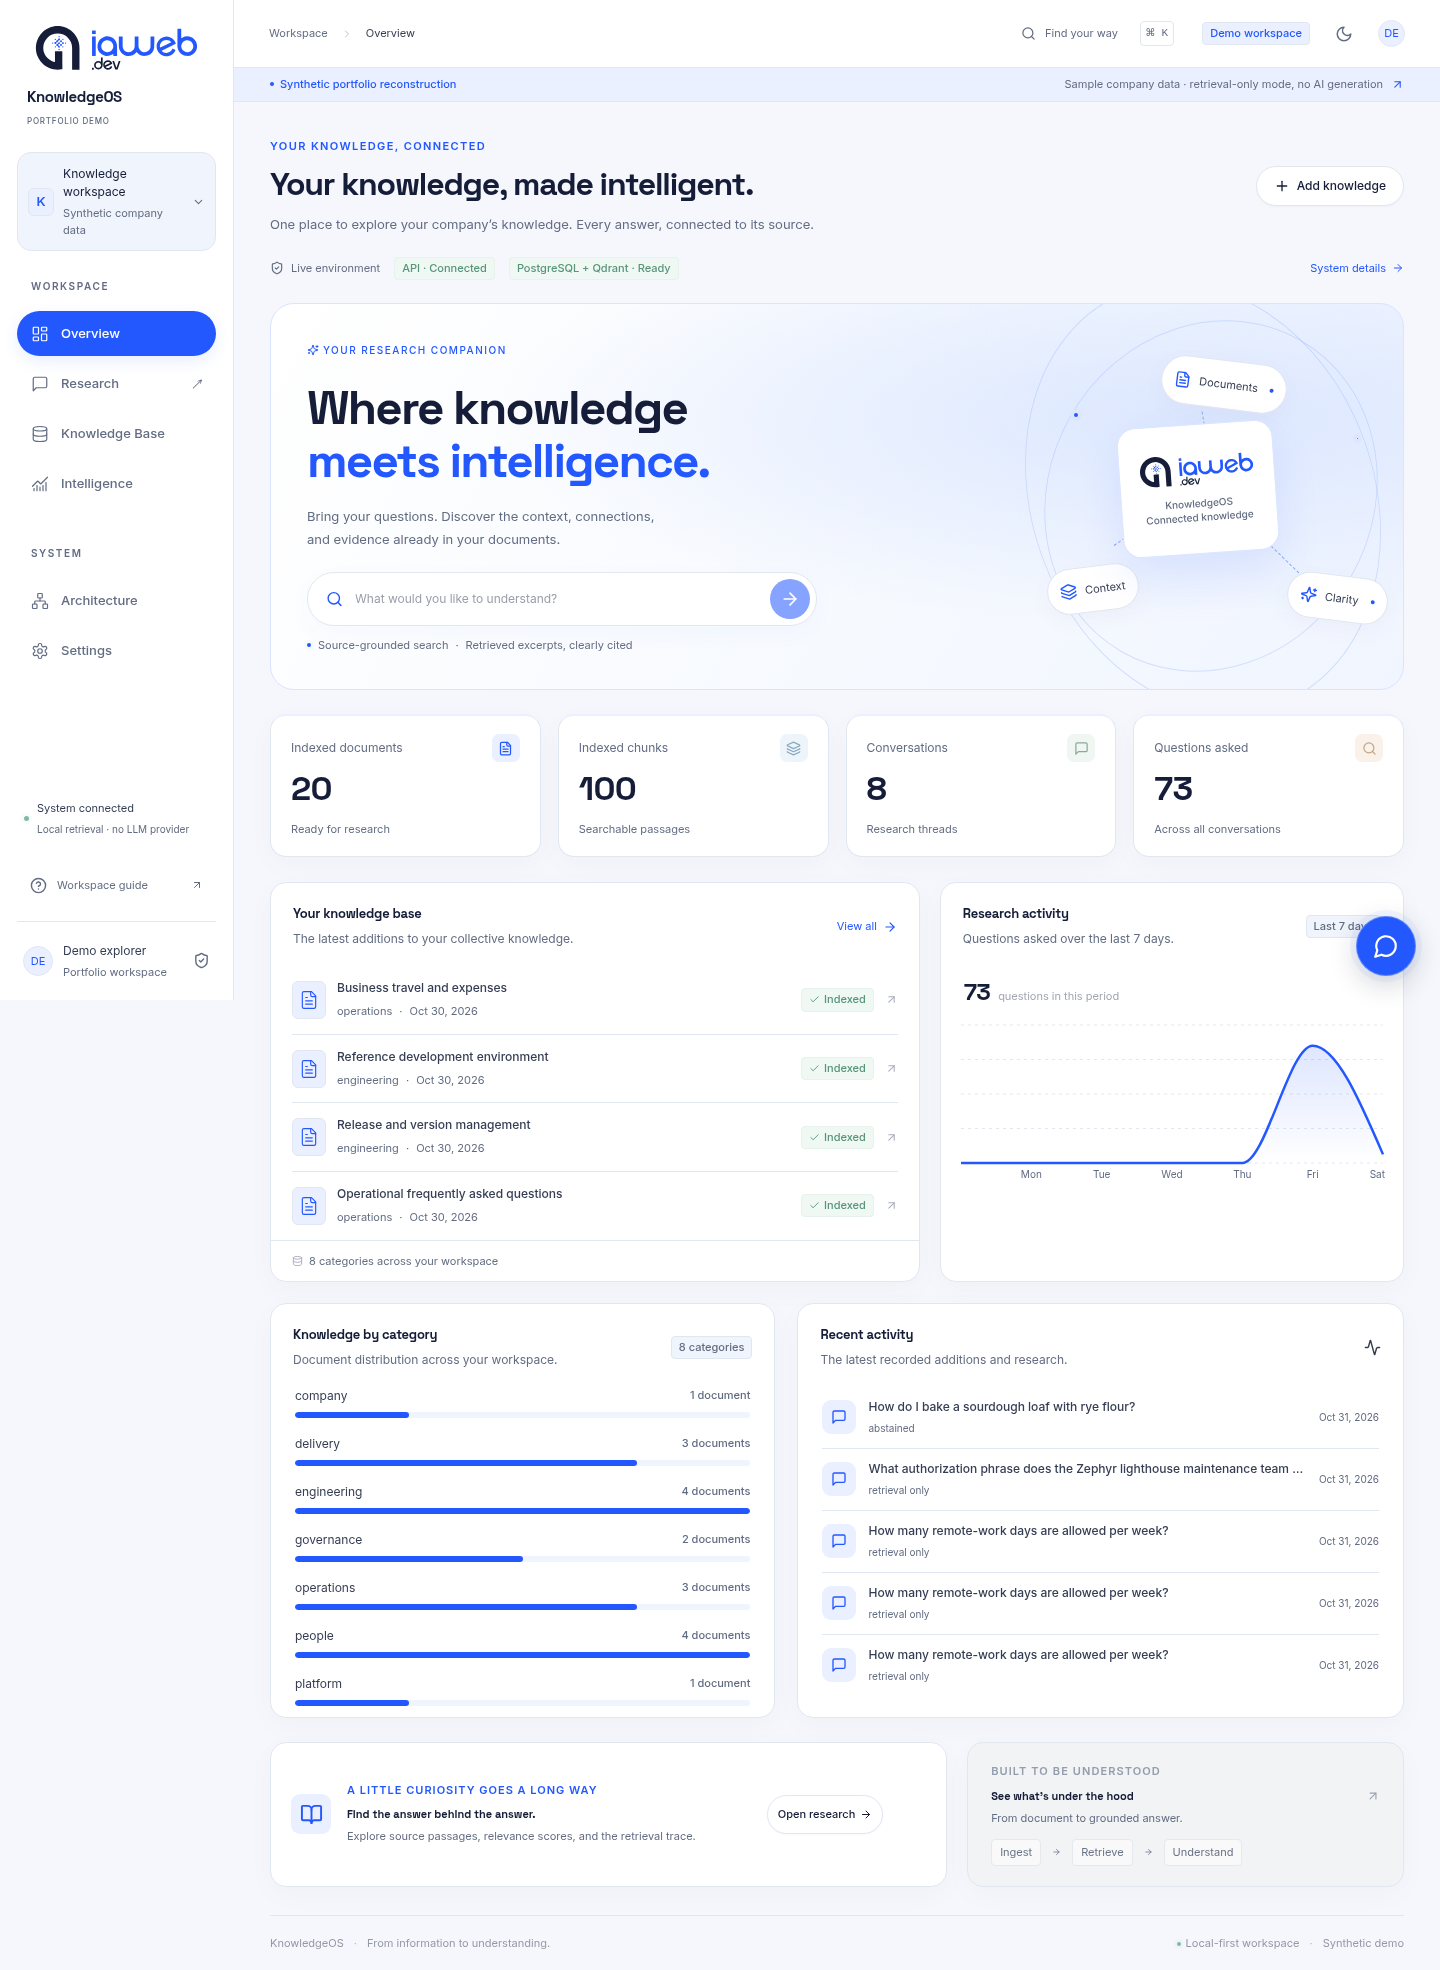
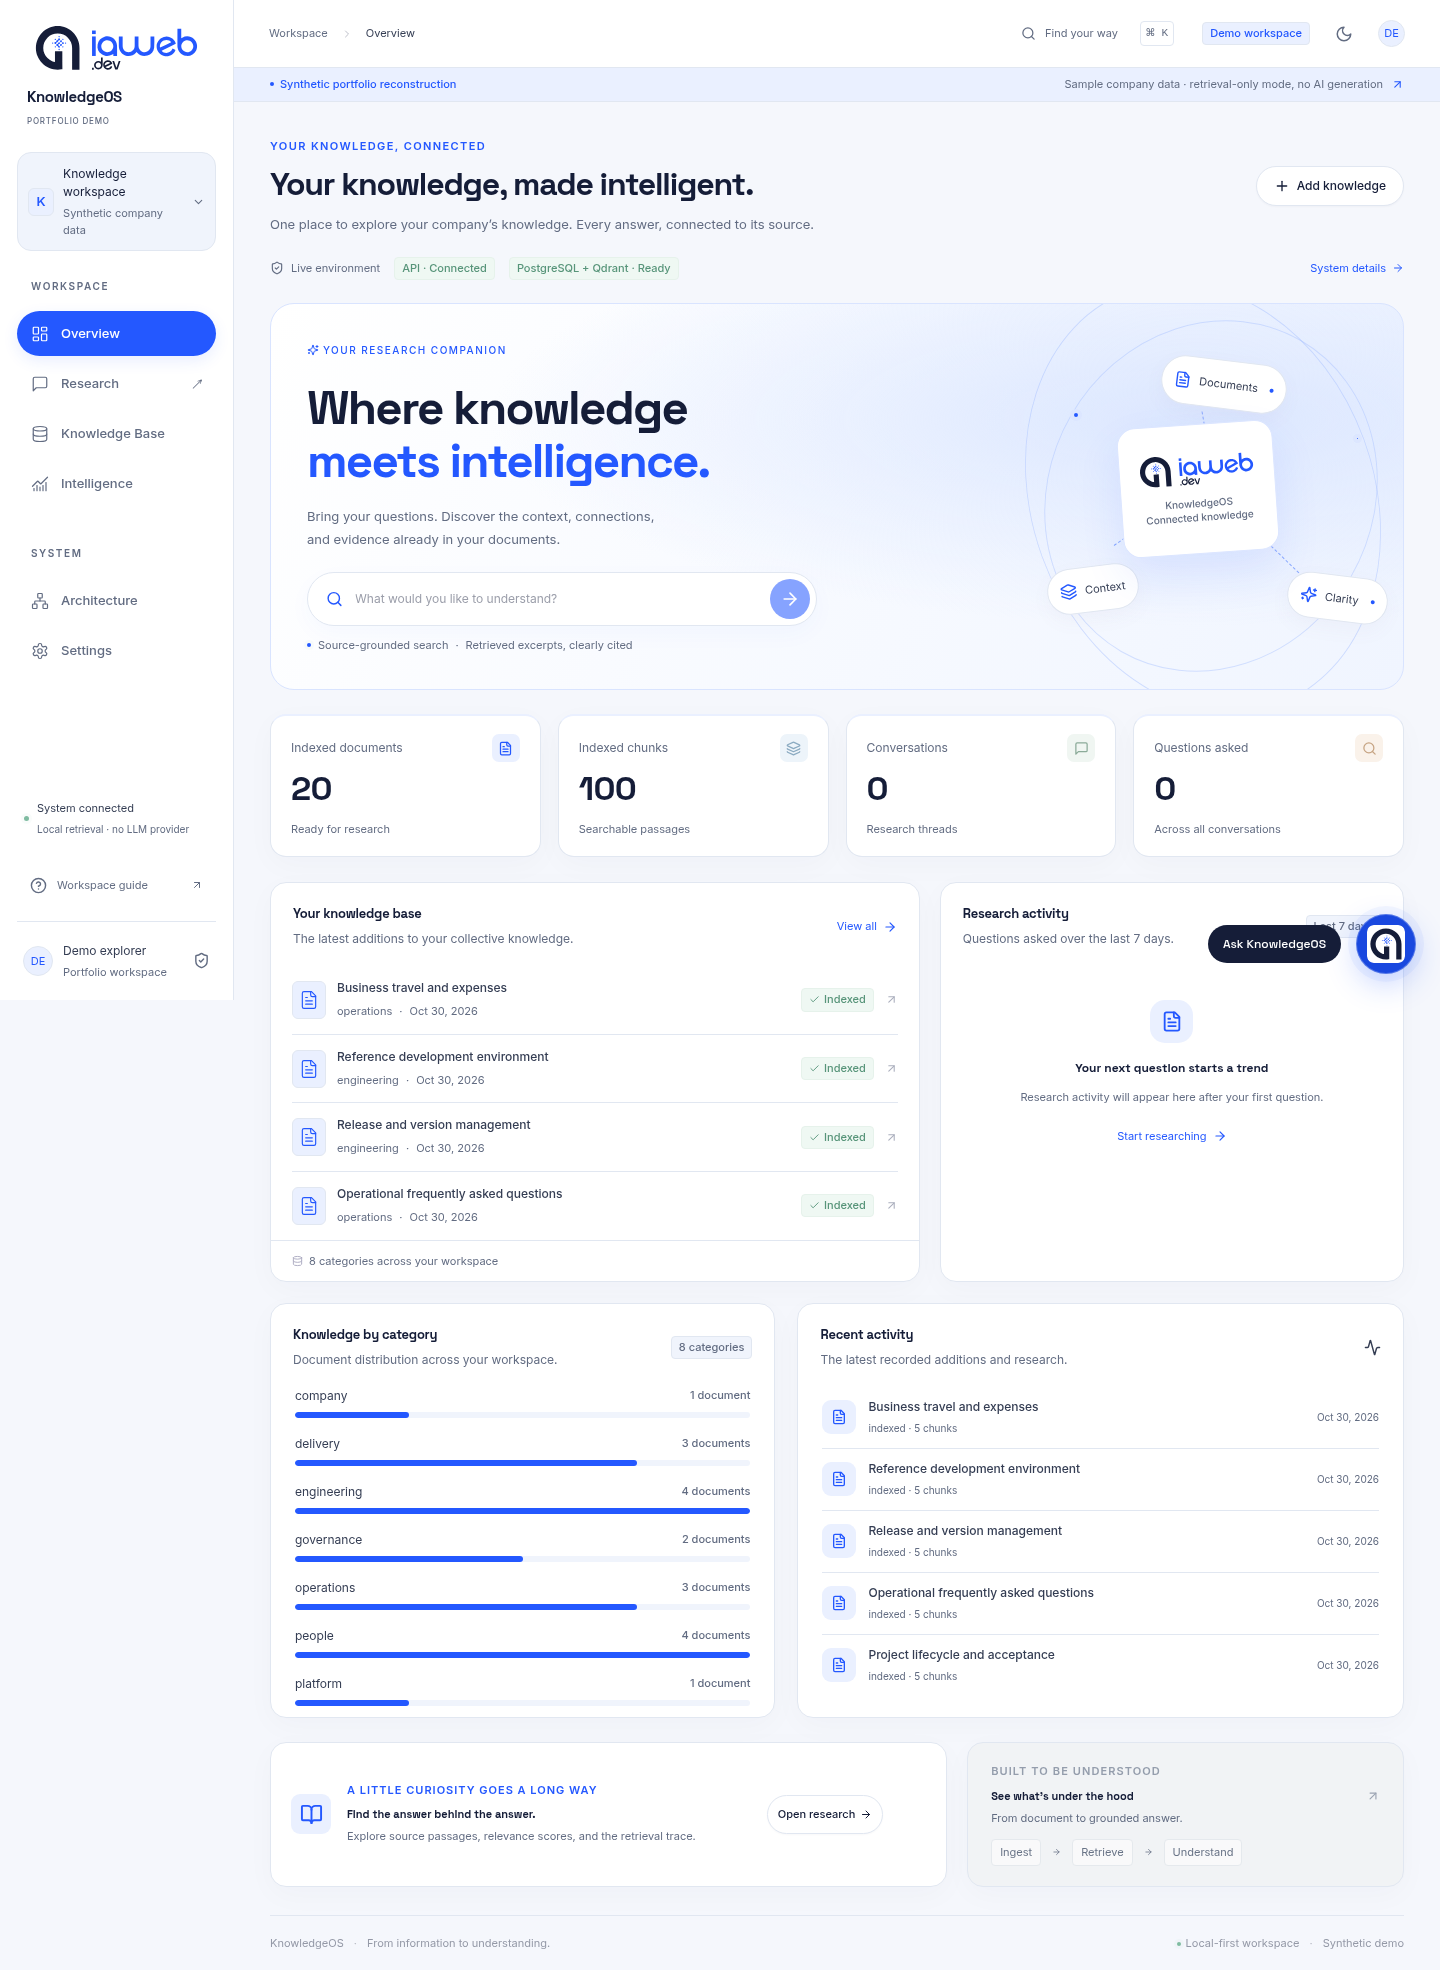
docs: add HR frontend test scenarios and owner attribution

diff --git a/test.md b/test.md
@@ -1,0 +1,222 @@
+# Tests manuels RH — KnowledgeOS
+
+> **Données entièrement fictives.** Les politiques et chiffres ci-dessous appartiennent à la démonstration ; ce ne sont pas les règles réelles de IAWEB.DEV.
+
+## Avant de commencer
+
+1. Ouvrir http://localhost:8080 et actualiser la page après le nettoyage de l’historique.
+2. Aller dans **Research**, puis **New conversation**, ou ouvrir le chatbot en bas à droite.
+3. Si le chatbot conserve une référence à une conversation supprimée, cliquer sur **+** (« Start a new quick chat »). Cela réinitialise sa référence locale.
+4. Garder les réglages de recherche à **5 passages** et **0,30** de seuil pour reproduire les vérifications ci-dessous.
+5. Copier un message anglais ci-dessous, envoyer, puis ouvrir les sources pour comparer le passage avec les éléments attendus.
+
+**Langue :** les explications sont en français, mais les messages de démonstration sont en anglais. Le corpus et le modèle d’embeddings actuels ne donnent pas une recherche française fiable. Les variantes françaises testées n’ont retrouvé aucun passage au seuil 0,30 ; elles figurent plus bas comme tests de cette limite.
+
+**Mode actuel : Retrieval only.** Sans fournisseur LLM, le front affiche des passages cités et ne rédige pas une réponse IA. Les « éléments attendus » ci-dessous sont les faits à retrouver dans les sources, pas un texte que le chatbot est censé générer. Avec un fournisseur configuré, vérifier aussi que chaque affirmation de la réponse est appuyée par ces sources.
+
+Ne pas téléverser ce fichier dans la base documentaire : il sert de fiche de test, pas de source RH.
+
+## Démo rapide : quatre messages
+
+Pour une démonstration courte, utiliser **RH01 → RH10 → RH12 → ABS05** : télétravail, formation, frais, puis question hors sujet. Ouvrir au moins une citation après chaque question RH.
+
+## Questions RH à copier
+
+### RH01 — Télétravail
+
+    How many remote-work days are allowed per week?
+
+**Éléments attendus :** Jusqu’à **3 jours par semaine**, avec accord du manager.
+
+**Source principale :** [Leave, absence and remote work](data/synthetic/05_leave_remote.md).
+
+### RH02 — Demande de congés
+
+    How far in advance should I request planned leave?
+
+**Éléments attendus :** Demander les congés prévus **10 jours ouvrés avant** le départ. Une demande ne vaut pas approbation.
+
+**Source principale :** [Leave, absence and remote work](data/synthetic/05_leave_remote.md).
+
+### RH03 — Absence de plus de cinq jours
+
+    How far ahead should leave longer than five working days ideally be requested?
+
+**Éléments attendus :** Préavis conseillé de **20 jours ouvrés** pour une absence de plus de cinq jours ouvrés. Il s’agit d’un délai de demande, pas d’un nombre de jours de congés acquis.
+
+**Source principale :** [Leave, absence and remote work](data/synthetic/05_leave_remote.md).
+
+### RH04 — Réponse à une demande de congés
+
+    Within how many working days does the manager respond to a leave request?
+
+**Éléments attendus :** Le manager répond sous **3 jours ouvrés**, après vérification de la couverture. L’approbation doit être enregistrée.
+
+**Source principale :** [Leave, absence and remote work](data/synthetic/05_leave_remote.md).
+
+### RH05 — Absence imprévue
+
+    Who should I notify about an unexpected absence?
+
+**Éléments attendus :** Prévenir **le manager et Operations** dès que raisonnablement possible. Ne pas publier de renseignements médicaux dans les canaux projet.
+
+**Source principale :** [Leave, absence and remote work](data/synthetic/05_leave_remote.md).
+
+### RH06 — Télétravail depuis un autre pays
+
+    Can I work remotely from another country without prior approval?
+
+**Éléments attendus :** Accord préalable de **Operations et du manager**, avec examen distinct des questions fiscales, contractuelles et de sécurité.
+
+**Source principale :** [Leave, absence and remote work](data/synthetic/05_leave_remote.md).
+
+### RH07 — Horaires de collaboration
+
+    What are the shared collaboration hours and the reference working week?
+
+**Éléments attendus :** Semaine de référence de **35 heures** ; plage commune **10 h–16 h, heure de Paris**. Ne pas confondre cette plage de coordination avec toute la durée quotidienne de travail.
+
+**Source principale :** [People practices and collaboration](data/synthetic/04_hr.md).
+
+### RH08 — Suivi de l’intégration
+
+    What are the three onboarding follow-up milestones?
+
+**Éléments attendus :** Points de suivi aux **jours 7, 30 et 60**. Ce sont des jalons fictifs d’intégration, pas une durée légale de période d’essai.
+
+**Source principale :** [Employee onboarding](data/synthetic/03_onboarding.md).
+
+### RH09 — Préparation de l’arrivée
+
+    How many working days before arrival does Operations confirm the start date, role, manager and equipment?
+
+**Éléments attendus :** Operations confirme la **date de début, le rôle, le manager et le matériel cinq jours ouvrés avant l’arrivée**.
+
+**Source principale :** [Employee onboarding](data/synthetic/03_onboarding.md).
+
+### RH10 — Budget de formation
+
+    What is the annual learning allowance and how many planned training days are provided?
+
+**Éléments attendus :** **600 euros par personne et par an**, avec **2 jours de formation prévus**. Le budget disponible ne remplace pas l’autorisation préalable du manager.
+
+**Source principale :** [Training and knowledge sharing](data/synthetic/15_training.md).
+
+### RH11 — Réponse à une demande de formation
+
+    How soon must the manager respond to a training request?
+
+**Éléments attendus :** Le manager répond sous **5 jours ouvrés**. Ne pas confondre avec les trois jours prévus pour une demande de congés.
+
+**Source principale :** [Training and knowledge sharing](data/synthetic/15_training.md).
+
+### RH12 — Plafonds de déplacement
+
+    What are the indicative hotel and meal ceilings?
+
+**Éléments attendus :** Hôtel : **120 euros par nuit, hors petit-déjeuner**. Repas : **25 euros par repas**. Un dépassement prévisible doit être approuvé avant la réservation.
+
+**Source principale :** [Business travel and expenses](data/synthetic/20_travel.md).
+
+### RH13 — Note de frais
+
+    How soon after returning from business travel should I submit my expense report?
+
+**Éléments attendus :** Envoyer la note de frais sous **10 jours ouvrés après le retour**, avec les justificatifs. Le délai cible de traitement d’un dossier complet est distinct : 15 jours ouvrés.
+
+**Source principale :** [Business travel and expenses](data/synthetic/20_travel.md).
+
+### RH14 — Problème impliquant le manager
+
+    Who can I contact if I have a workplace concern involving my manager?
+
+**Éléments attendus :** Contacter **Operations directement**, dans un espace restreint, notamment si la difficulté concerne son propre manager.
+
+**Source principale :** [People practices and collaboration](data/synthetic/04_hr.md).
+
+### RH15 — Entretiens individuels
+
+    How often are individual feedback meetings held and how long do they last?
+
+**Éléments attendus :** Un entretien de **30 minutes toutes les deux semaines** : charge, obstacles, progression et coopération.
+
+**Source principale :** [People practices and collaboration](data/synthetic/04_hr.md).
+
+### RH16 — Passation avant congés
+
+    Can I share my password with the colleague covering my leave?
+
+**Éléments attendus :** **Ne jamais partager son mot de passe.** Les droits nécessaires au remplaçant suivent la procédure de demande d’accès IT.
+
+**Source principale :** [Leave, absence and remote work](data/synthetic/05_leave_remote.md).
+
+## Questions sans réponse documentée
+
+Ces cas vérifient que l’interface ne transforme pas des passages voisins en faits inventés. Lors de la vérification du 1er novembre 2026, ABS01–ABS04 ont remonté des documents proches du sujet, mais sans les données demandées ; ABS05 n’a remonté aucun passage. Le seuil de similarité ne suffit donc pas à garantir une abstention sur toutes les questions RH non couvertes.
+
+En mode retrieval-only, des extraits connexes ne constituent pas une réponse. Avec un LLM, le résultat attendu est une indication claire de l’information absente, sans nombre inventé.
+
+### ABS01 — Salaire individuel
+
+    What is the individual salary of the real company director?
+
+**Attendu :** Aucun salaire individuel réel n’existe dans ce corpus. Ne pas produire un montant ni l’inférer du budget de formation.
+
+### ABS02 — Droits annuels à congés
+
+    How many days of annual paid leave am I entitled to?
+
+**Attendu :** Le nombre de jours de congés annuels n’est pas défini. Les nombres 10 et 20 du guide correspondent à des délais de demande.
+
+### ABS03 — Congé de paternité
+
+    How many days of paid paternity leave are provided?
+
+**Attendu :** La durée du congé de paternité n’est pas définie. Ne pas importer une règle légale extérieure au corpus.
+
+### ABS04 — Indemnité kilométrique
+
+    What is the mileage reimbursement rate per kilometer?
+
+**Attendu :** Aucun barème kilométrique n’est fourni. Le plafond hôtel/repas ne permet pas d’en déduire un tarif.
+
+### ABS05 — Hors sujet : abstention visible
+
+    How do I bake a sourdough loaf with rye flour?
+
+**Attendu :** Attendre un état **Insufficient evidence**, sans recette ni citation inventée. Ce message ne concerne pas la base RH.
+
+## Tests en français : limite actuelle à observer
+
+Essayer les trois formulations suivantes pour constater la limite linguistique actuelle, puis comparer avec RH01, RH10 et RH05 en anglais. Elles ne doivent pas servir de démonstration de recherche française réussie.
+
+    Combien de jours de télétravail sont autorisés par semaine ?
+
+    Quel est le budget annuel de formation et combien de jours sont prévus ?
+
+    Qui dois-je prévenir en cas d’absence imprévue ?
+
+Au seuil vérifié, aucun passage n’a été retrouvé pour ces formulations françaises. Attendre l’état de manque de contexte, plutôt qu’une réponse inventée. Une autre formulation ou un autre réglage peut changer le résultat ; une prise en charge française fiable demanderait une adaptation du corpus ou du modèle d’embeddings, suivie d’une nouvelle évaluation.
+
+## Vérifications du front
+
+- [ ] Le mode affiché correspond à la configuration : **Retrieval only** sans LLM.
+- [ ] Le message saisi et le résultat apparaissent, avec un chargement compréhensible.
+- [ ] Une source s’ouvre et affiche le bon titre ainsi qu’un passage contenant le fait attendu. Consulter plusieurs citations si nécessaire.
+- [ ] Le score de similarité est traité comme une mesure de proximité, pas comme une probabilité de vérité.
+- [ ] Dans Research, **Retrieval trace** affiche les sources réellement utilisées et les paramètres de recherche.
+- [ ] Une conversation peut être renommée, puis retrouvée après actualisation en cliquant dans l’historique.
+- [ ] Le bouton **+** du chatbot démarre une nouvelle conversation ; **Open chat in Research** ouvre celle déjà commencée.
+- [ ] La suppression d’une conversation retire ses messages. Les événements statistiques restent normalement conservés ; le nettoyage administratif demandé le 1er novembre a aussi effacé ces événements anciens.
+- [ ] À 390 px de largeur, les contrôles, citations et zone de saisie restent utilisables.
+- [ ] Après de nouveaux essais, Overview et Intelligence comptent les véritables requêtes effectuées.
+
+Pour les tests de suivi, reformuler le sujet dans chaque question : la recherche vectorielle utilise le message courant. Par exemple, préférer « Who approves remote work from another country? » à une question ambiguë comme « And who approves it? ».
+
+## Ce qui a réellement été vérifié
+
+Le 1er novembre 2026, les questions RH anglaises ci-dessus ont été soumises au véritable service de recherche et à Qdrant avec top_k = 5 et score_threshold = 0,30. Le document principal attendu a été retrouvé pour chaque formulation finale. RH09 a été précisée après une première formulation qui ne retrouvait pas le document d’intégration.
+
+Cette vérification porte sur la présence du document attendu parmi les résultats, pas sur une mesure de justesse des réponses générées. Les éléments attendus ont été lus dans les documents sources ; leur couverture exacte par les extraits et leur présentation dans le front restent les critères du test manuel. Aucun fournisseur LLM n’a été invoqué.
+
+Les recherches de préparation ont été exécutées dans une transaction SQL en lecture seule, sans enregistrer de conversations, de messages ou de nouveaux événements de requête. Le nettoyage a laissé **0 conversation, 0 message et 0 événement de requête**, en conservant **20 documents et 100 passages indexés**. Les questions que vous enverrez ensuite dans le front créeront naturellement un nouvel historique.

diff --git a/README.md b/README.md
@@ -1,6 +1,7 @@
 <div align="center">
   <img src="frontend/public/logo.svg" width="64" alt="KnowledgeOS logo" />
   <h1>KnowledgeOS</h1>
+  <p>Portfolio by <a href="https://github.com/CHAKRAbdedaym">CHAKRAbdedaym</a></p>
   <p><strong>Enterprise AI Knowledge Intelligence</strong></p>
   <p>A complete document-to-evidence workspace: local embeddings, real vector retrieval, inspectable citations and optional grounded generation.</p>
 </div>
@@ -189,6 +190,8 @@ npm run dev
 Vite proxies `/api` to `localhost:8000`. Run the seed script from the repository root. Do not run the local API and container API on port 8000 simultaneously.
 
 ## Corpus, questions and evaluation
+
+For a ready-to-use HR frontend walkthrough, see [test.md](test.md): French instructions, English prompts, expected source documents and missing-information checks.
 
 `data/synthetic/` contains twenty explicitly labeled fictional policies covering company operations, onboarding, HR, leave, remote work, IT, security, incidents, engineering, API development, support, governance, AI, training, delivery, releases, setup and travel. The manifest declares categories and tags; no actual employee data is included.
 
